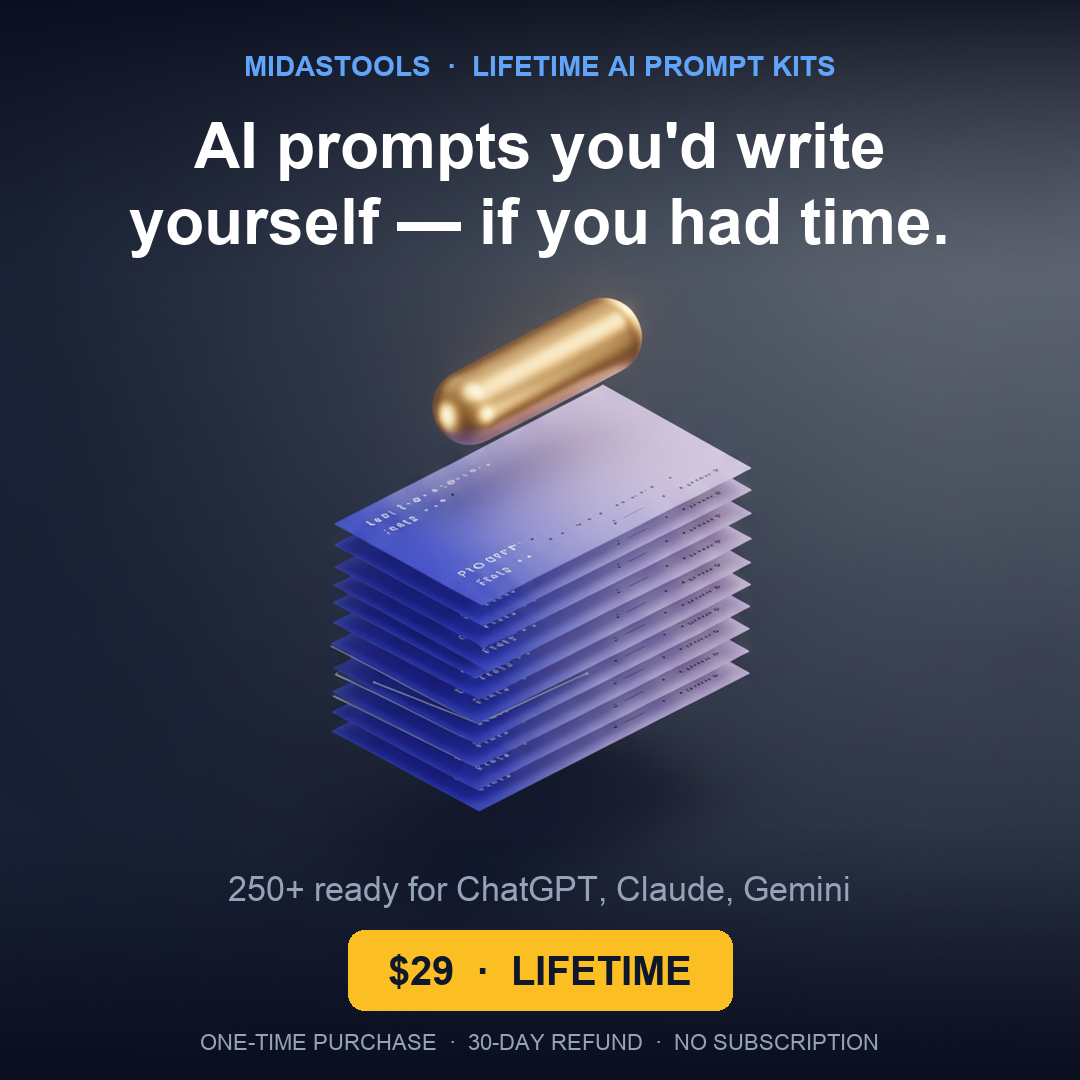
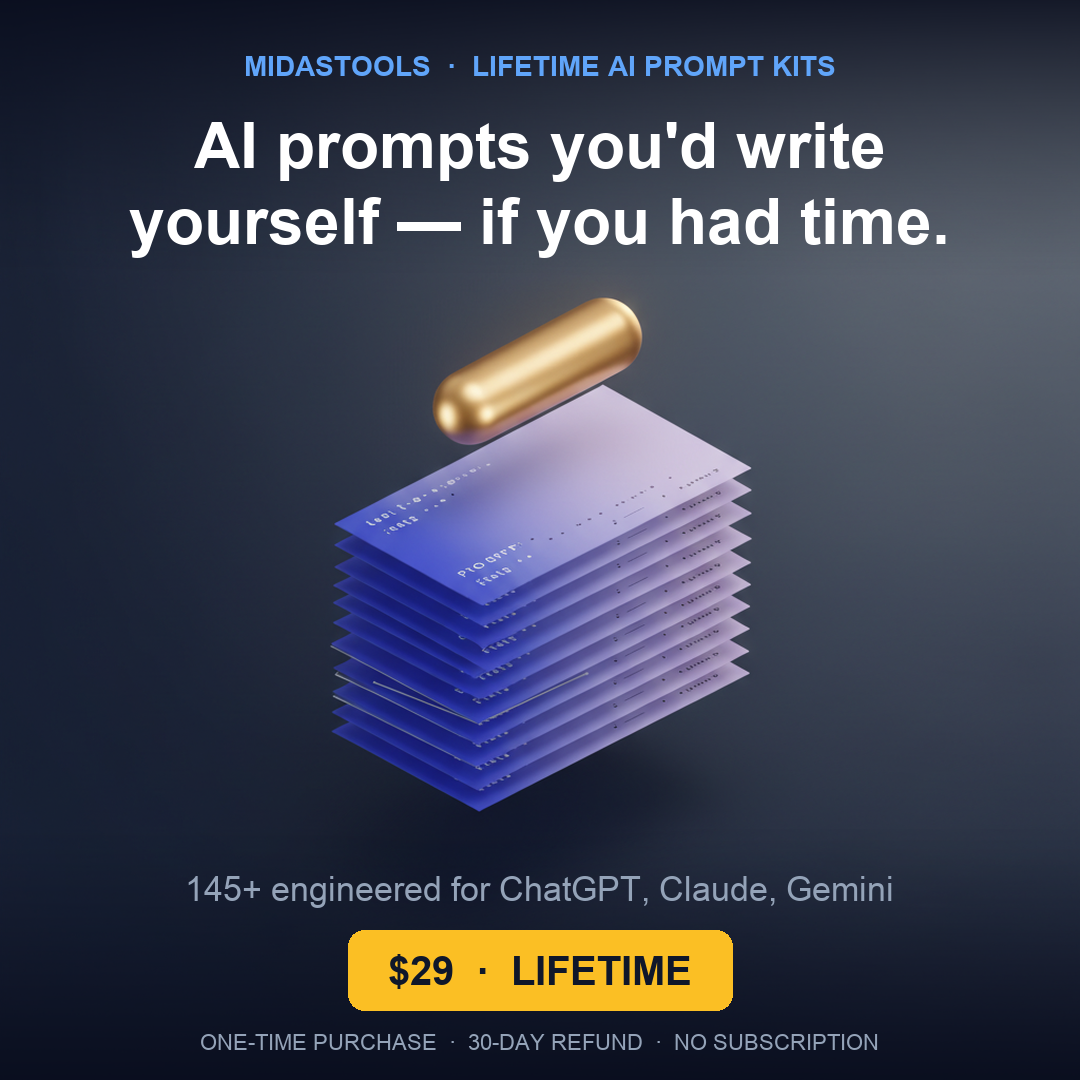
Truth audit pass 2: align Mega Pack claims to honest 145+ across surfaces
Fixed all Mega-Pack-specific overclaims found in second pass:

Front-end pages:
- pages/api/subscribe.js — welcome email "500+ prompts" → "145+ prompts"
  (auto-sends to every new signup; biggest unfixed overclaim)
- pages/prompt-enhancer.js — 3 spots ("250+ already-enhanced...8 categories"
  → "145+ already-enhanced...6 categories"; "Want 500+ Pre-Written Expert
  Prompts" → "Want 145+..."; "500+ expert prompts ready" → "145+...")
- pages/index.js — 2 Mega Pack card refs ("200+ prompts for any business" +
  "200+ prompts across every business function") → "145+..."
- pages/quiz.js — Mega Pack tagline → "145+..."
- pages/ai-audit.js — Mega Pack reference → "145+..."
- pages/blog/ai-tools-project-managers-2026.js — Mega Pack callout → "145+..."

Reddit ad asset:
- .founder/tools/finalize-reddit-ad.py — subhead "250+ ready" → "145+ engineered"
- public/reddit-ad-v3-final.png — regenerated with truthful subhead

Sales body files (won't unsend already-fired emails, but stops future reuse):
- All 7 .founder/sales/{softpitch,welcome,checkin}-may14*.body.html files
  updated from "250+ ChatGPT/Claude/Gemini prompts" → "145+ engineered..."

NOT touched (pre-existing claims that may refer to bundle-wide totals,
need Armando's strategic call):
- pages/index.js homepage hero "250+ expert prompts" (could be all 21 kits)
- pages/bundle.js "200+ business documents" (bundle-wide framing)
- pages/tools.js "1,500+ prompts, templates, and workflows" (bundle-wide)
[…]

Changed region(s): [[0.1833, 0.7944, 0.825, 0.8556]]

diff --git a/.founder/sales/softpitch-may14-christophe-desjoyaux.body.html b/.founder/sales/softpitch-may14-christophe-desjoyaux.body.html
@@ -1,0 +1,23 @@
+<p>Christophe,</p>
+
+<p>Vous vous êtes inscrit sur midastools.co il y a quelques semaines et vous n'avez jamais reçu l'email de bienvenue — un bug de stockage côté abonnés a bloqué votre signup pendant ~25 jours. Nous l'avons corrigé aujourd'hui. Mes excuses pour le délai. Le reste du message en anglais si vous préférez (réponse en français OK).</p>
+
+<p>You signed up at midastools.co a few weeks ago and the welcome email never reached you — our subscriber storage had a bug for ~25 days and your signup sat in a hold-queue. Fixed today. Apologies.</p>
+
+<p>Here's what you came for: <a href="https://www.midastools.co/ai-prompt-mega-pack?utm_source=softpitch-recovery&amp;utm_medium=email&amp;utm_campaign=recovery-corp-may14">145+ engineered ChatGPT/Claude prompts in our AI Prompt Mega Pack</a> ($29, lifetime, 30-day refund).</p>
+
+<p>Three prompts that map well to a regional service business (pool maintenance, installations, seasonal customer base):</p>
+
+<ul>
+<li><strong>Saisonnier devis-generator</strong> — paste customer details + service scope, get a clean French-language quote with terms, payment schedule, and a soft 7-day urgency line. Faster than writing each one from scratch.</li>
+<li><strong>Google review response prompt</strong> — paste a 1-star review, get 3 reply variants (apologetic / explanatory / firm-but-fair) tuned for service businesses. Saves the time of writing each defensively.</li>
+<li><strong>Seasonal demand forecaster</strong> — paste last 2 years of monthly bookings, get a week-by-week capacity-vs-demand chart for the next pool season + recommended hiring/marketing windows.</li>
+</ul>
+
+<p>Build something great,<br/>
+Armando<br/>
+MidasTools</p>
+
+<hr style="border:none;border-top:1px solid #E5E7EB;margin:24px 0;"/>
+
+<p style="font-size:14px;color:#6B7280;"><strong>P.S.</strong> &mdash; If you want a 3-prompt sample fitted to <em>your</em> Cholet/Beaucouzé operation (in French if you prefer) before deciding on the pack, reply with <strong>"sample"</strong> and I'll send a 1-page PDF customized to Desjoyaux 49 within 24 hours, free.</p>

diff --git a/.founder/sales/softpitch-may14-daniel-80si.body.html b/.founder/sales/softpitch-may14-daniel-80si.body.html
@@ -1,0 +1,23 @@
+<p>Daniel,</p>
+
+<p>You signed up at midastools.co a couple of days ago and didn't get your welcome email — our subscriber storage had a write-path bug for about a week and your signup landed in a hold-queue. We caught it today, recovered the queue, and you're properly in the system now. Apologies for the delay.</p>
+
+<p>I noticed your shop's positioning over at 80si — "real humans, no AI" — and I respect it. The prompt pack we sell isn't an "AI replaces your team" play; it's a library of well-engineered prompts that good developers/PMs use as a faster way to draft RFCs, code-review comments, client-facing scope docs, etc. The output still needs your judgment to ship.</p>
+
+<p>Here's what you came for: <a href="https://www.midastools.co/ai-prompt-mega-pack?utm_source=softpitch-recovery&amp;utm_medium=email&amp;utm_campaign=recovery-corp-may14">145+ engineered Claude/ChatGPT/Gemini prompts in the AI Prompt Mega Pack</a> ($29, lifetime, 30-day refund).</p>
+
+<p>Three that map to a small dev consultancy:</p>
+
+<ul>
+<li><strong>Code-review pre-commit prompt</strong> — paste a diff, get a 5-question checklist on whether it's ready to merge (correctness / readability / test coverage / API surface / breaking changes). Useful as a first-pass before human review.</li>
+<li><strong>Client-discovery RFC drafter</strong> — feed it a transcript or notes from a scoping call, get a 1-page proposal draft with assumptions called out + open questions list.</li>
+<li><strong>Tech-debt audit narrative</strong> — paste a list of "we know we need to fix X" items, get a prioritized 3-tier writeup framed for a non-technical client decision.</li>
+</ul>
+
+<p>Build something great,<br/>
+Armando<br/>
+MidasTools</p>
+
+<hr style="border:none;border-top:1px solid #E5E7EB;margin:24px 0;"/>
+
+<p style="font-size:14px;color:#6B7280;"><strong>P.S.</strong> &mdash; Most prompts in the pack are designed for solo operators or small teams. If you ever want a sample fitted to your actual stack (Magento/Laravel/Nuxt) before buying, reply with the word <strong>"sample"</strong> and I'll send a 3-prompt PDF customized to your work in under 24 hours, free.</p>

diff --git a/.founder/sales/softpitch-may14-ramella-fanuc.body.html b/.founder/sales/softpitch-may14-ramella-fanuc.body.html
@@ -1,0 +1,23 @@
+<p>Ramella,</p>
+
+<p>You signed up at midastools.co yesterday and didn't get your welcome email — our subscriber storage had a write-path bug for about a week and your signup landed in a hold-queue instead of triggering the standard flow. We caught it today, recovered the queue, and you're now in the system properly. Apologies for the delay.</p>
+
+<p>Here's what you actually came for: <a href="https://www.midastools.co/ai-prompt-mega-pack?utm_source=softpitch-recovery&amp;utm_medium=email&amp;utm_campaign=recovery-corp-may14">145+ engineered ChatGPT/Claude/Gemini prompts in our AI Prompt Mega Pack</a> ($29, lifetime, 30-day refund — no subscription).</p>
+
+<p>Given the work you do at FANUC America — business reporting + corporate BI — three of the most-used prompts in the pack that map directly to your function:</p>
+
+<ul>
+<li><strong>Variance-narrative builder</strong> — feed it your monthly P&amp;L delta vs forecast, get a 3-paragraph executive summary with the actual <em>why</em> behind each variance.</li>
+<li><strong>Cross-system data reconciliation prompt</strong> — paste two CSVs (ERP vs BI extract), it lists discrepancies + likely cause-categories ranked by impact.</li>
+<li><strong>Board-meeting Q&amp;A pre-mortem</strong> — feed it your quarterly deck, it generates the 12 hardest follow-up questions a CFO will ask + suggested answers.</li>
+</ul>
+
+<p>Each one is a copy-paste template with slots for your specific data. No fine-tuning, no API setup.</p>
+
+<p>Build something great,<br/>
+Armando<br/>
+MidasTools</p>
+
+<hr style="border:none;border-top:1px solid #E5E7EB;margin:24px 0;"/>
+
+<p style="font-size:14px;color:#6B7280;"><strong>P.S.</strong> &mdash; If your team at FANUC is actively figuring out how to deploy AI tools across reporting/ops workflows (the question past the prompt-pack layer), we also do a 1-on-1 <strong>AI Clarity Assessment</strong> — 90-minute working session, deliverable is a written 4-artifact audit (workflow map + AI-readiness matrix + top-3 deployment recommendations + human-in-loop design). $997 one-time, used by IT directors and operations leads at companies sorting through the AI tool sprawl. Reply with the word <strong>"audit"</strong> if it's worth a 10-minute look. No pressure if not.</p>

diff --git a/.founder/sales/welcome-may14-recovery.body.html b/.founder/sales/welcome-may14-recovery.body.html
@@ -1,0 +1,22 @@
+<p>Hi,</p>
+
+<p>You signed up at midastools.co recently and our subscriber storage had a write-path bug that kept your signup in a hold-queue instead of triggering the welcome email. Fixed today, you're now in the system properly. Apologies for the delay.</p>
+
+<p>Here's what you came for:</p>
+
+<ul>
+<li><strong><a href="https://www.midastools.co/ai-prompt-mega-pack?utm_source=welcome-recovery&amp;utm_medium=email&amp;utm_campaign=may14-consumer-batch">AI Prompt Mega Pack</a></strong> &mdash; 145+ engineered ChatGPT, Claude, and Gemini prompts for marketing, sales, content, ops, and personal productivity. $29 lifetime. 30-day refund. No subscription.</li>
+<li><strong><a href="https://www.midastools.co/tools?utm_source=welcome-recovery&amp;utm_medium=email&amp;utm_campaign=may14-consumer-batch">22+ Free AI Tools</a></strong> &mdash; including the prompt enhancer (paste a rough prompt, get a much better version back), Ghibli-style image prompt generator, action figure generator, and buyer-intent generator. All free, no signup.</li>
+</ul>
+
+<p>The Mega Pack is the most-loved thing we sell &mdash; the comparison vs subscribing to "AI prompt site of the month" newsletters is pretty stark. One-time $29, lifetime, no subscription. Includes future updates.</p>
+
+<p>If you ever bought a $49+ "prompt bundle" elsewhere and want a refund-and-switch reason, our 30-day money-back means you can compare both head-to-head with zero risk.</p>
+
+<p>Build something great,<br/>
+Armando<br/>
+MidasTools</p>
+
+<hr style="border:none;border-top:1px solid #E5E7EB;margin:24px 0;"/>
+
+<p style="font-size:13px;color:#6B7280;">P.S. &mdash; If you have a specific use case you want help with (cold email, content batch, customer support replies, code review, etc.), reply with two sentences about your work and I'll point you at the right 2&ndash;3 prompts in the pack. Real human reply, no automation.</p>

diff --git a/.founder/sales/checkin-may14-info-acprintmedia.body.html b/.founder/sales/checkin-may14-info-acprintmedia.body.html
@@ -1,0 +1,20 @@
+<p>Hallo,</p>
+
+<p>Sie haben sich am 15. April auf midastools.co eingetragen und damals die 5 Gratis-Prompts erhalten. Kurze Nachricht ~4 Wochen später &mdash; alles weitere unten auf Englisch (Antwort gerne auf Deutsch).</p>
+
+<p>You signed up at midastools.co on April 15 and received the 5 free prompts then. Quick ~4-week check-in.</p>
+
+<p>Two things shipped since:</p>
+
+<ul>
+<li><strong><a href="https://www.midastools.co/starter-pack?utm_source=checkin-may14&amp;utm_medium=email">$9 Starter Pack</a></strong> &mdash; 20 curated prompts, lower-cost entry point than the full Mega Pack.</li>
+<li><strong><a href="https://www.midastools.co/ai-prompt-mega-pack?utm_source=checkin-may14&amp;utm_medium=email&amp;utm_campaign=checkin-corp">AI Prompt Mega Pack</a></strong> ($29 lifetime, 30-day refund) &mdash; 145+ engineered prompts including sections specifically useful for a regional advertising/print shop: client quote-generators, customer-review responses, social-media campaign drafts, seasonal-promo planners.</li>
+</ul>
+
+<p>Build something great,<br/>
+Armando<br/>
+MidasTools</p>
+
+<hr style="border:none;border-top:1px solid #E5E7EB;margin:24px 0;"/>
+
+<p style="font-size:14px;color:#6B7280;"><strong>P.S.</strong> &mdash; If you want 3 prompts customized to A&amp;C Printmedia (Kühlungsborn print/advertising work specifically) before deciding on the pack, reply with <strong>"sample"</strong> and I'll send a 1-page PDF within 24 hours, free. Auf Deutsch verfügbar wenn gewünscht.</p>

diff --git a/.founder/sales/checkin-may14-shannon-lakecounty.body.html b/.founder/sales/checkin-may14-shannon-lakecounty.body.html
@@ -1,0 +1,20 @@
+<p>Shannon,</p>
+
+<p>You signed up at midastools.co on April 15 and received the 5 free prompts then. Quick ~4-week check-in.</p>
+
+<p>Two things shipped since:</p>
+
+<ul>
+<li><strong><a href="https://www.midastools.co/audit-template?utm_source=checkin-may14&amp;utm_medium=email">Free AI Tool Audit Checklist</a></strong> &mdash; 14-question structured walkthrough useful for evaluating where AI fits in a department/operation. Free, email-gated.</li>
+<li><strong><a href="https://www.midastools.co/starter-pack?utm_source=checkin-may14&amp;utm_medium=email">$9 Starter Pack</a></strong> &mdash; 20 curated prompts, lower-cost entry point than the full pack.</li>
+</ul>
+
+<p>The full <a href="https://www.midastools.co/ai-prompt-mega-pack?utm_source=checkin-may14&amp;utm_medium=email&amp;utm_campaign=checkin-corp">AI Prompt Mega Pack</a> ($29 lifetime, 30-day refund) is still available &mdash; 145+ engineered prompts including sections useful for public-sector communications, internal training, constituent FAQ generation, and policy-research summaries.</p>
+
+<p>Build something great,<br/>
+Armando<br/>
+MidasTools</p>
+
+<hr style="border:none;border-top:1px solid #E5E7EB;margin:24px 0;"/>
+
+<p style="font-size:14px;color:#6B7280;"><strong>P.S.</strong> &mdash; If Lake County is exploring how AI tools fit into department operations (constituent services, internal training, document workflow, etc.), we do a 1-on-1 <strong>AI Clarity Assessment</strong> with a written 4-artifact deliverable (workflow map + AI-readiness matrix + top-3 deployment recommendations + human-in-loop design). $997 one-time, fits inside most training/discretionary budgets. Built for the operational layer past the prompt-pack stage. Reply <strong>"audit"</strong> if worth a 10-min look.</p>

diff --git a/.founder/sales/checkin-may14-tsimmons-stamhealth.body.html b/.founder/sales/checkin-may14-tsimmons-stamhealth.body.html
@@ -1,0 +1,20 @@
+<p>Hi T.,</p>
+
+<p>You signed up at midastools.co on April 9 and got the 5 free prompts back then. It's been ~5 weeks since, so quick check-in.</p>
+
+<p>Two things have shipped since you joined:</p>
+
+<ul>
+<li><strong><a href="https://www.midastools.co/audit-template?utm_source=checkin-may14&amp;utm_medium=email">Free AI Tool Audit Checklist</a></strong> &mdash; 14-question structured walkthrough for evaluating where AI fits (and where it doesn't) in a specific operation. Free download, email-gated.</li>
+<li><strong><a href="https://www.midastools.co/starter-pack?utm_source=checkin-may14&amp;utm_medium=email">$9 Starter Pack</a></strong> &mdash; 20 curated prompts (the best of the free 5 + 15 more), in case the full $29 Mega Pack felt like too much for a first try.</li>
+</ul>
+
+<p>The full <a href="https://www.midastools.co/ai-prompt-mega-pack?utm_source=checkin-may14&amp;utm_medium=email&amp;utm_campaign=checkin-corp">AI Prompt Mega Pack</a> ($29 lifetime, 30-day refund) is still there too &mdash; 145+ engineered prompts including a section specifically built for ops/comms teams at orgs like yours.</p>
+
+<p>Build something great,<br/>
+Armando<br/>
+MidasTools</p>
+
+<hr style="border:none;border-top:1px solid #E5E7EB;margin:24px 0;"/>
+
+<p style="font-size:14px;color:#6B7280;"><strong>P.S.</strong> &mdash; If your team at Stam Health is exploring how AI tools fit into healthcare ops/comms (around HIPAA, patient communication, internal training, etc.), we do a 1-on-1 <strong>AI Clarity Assessment</strong> with a written 4-artifact deliverable (workflow map + AI-readiness matrix + top-3 deployment recommendations + human-in-loop design). $997 one-time. Built for the question past the prompt-pack layer. Reply <strong>"audit"</strong> if worth a 10-min look. No pressure.</p>

diff --git a/pages/prompt-enhancer.js b/pages/prompt-enhancer.js
@@ -818,7 +818,7 @@ export default function PromptEnhancer() {
         }}>
           <div style={{ flex: '1 1 260px', color: '#FFF' }}>
             <div style={{ fontSize: 11, fontWeight: 800, letterSpacing: 1, color: '#FCD34D', marginBottom: 4 }}>⚡ SKIP THE ENHANCER</div>
-            <div style={{ fontSize: 16, fontWeight: 700, lineHeight: 1.35 }}>250+ already-enhanced expert prompts across 8 categories. Copy &amp; paste ready.</div>
+            <div style={{ fontSize: 16, fontWeight: 700, lineHeight: 1.35 }}>145+ already-enhanced expert prompts across 6 categories. Copy &amp; paste ready.</div>
           </div>
           <a href={STRIPE_MEGA_PACK} style={{
             display: 'inline-block',
@@ -942,7 +942,7 @@ export default function PromptEnhancer() {
       <section className="upsell">
         <div className="upsell-card">
           <div className="upsell-badge">Skip the Enhancing</div>
-          <h2>Want 500+ Pre-Written Expert Prompts?</h2>
+          <h2>Want 145+ Pre-Written Expert Prompts?</h2>
           <p>
             Every prompt in our Mega Pack is already engineered with role assignment, context,
             format instructions, and quality constraints built in. Just copy, paste, and get results.
@@ -1009,7 +1009,7 @@ export default function PromptEnhancer() {
           borderTop: '1px solid rgba(255,255,255,0.1)',
         }}>
           <span style={{ color: '#fff', fontSize: 14, fontWeight: 600 }}>
-            500+ expert prompts ready to copy & paste
+            145+ expert prompts ready to copy & paste
           </span>
           <a href={STRIPE_MEGA_PACK} style={{
             background: '#3B5FFF', color: '#fff', padding: '8px 20px',

diff --git a/pages/index.js b/pages/index.js
@@ -478,7 +478,7 @@ export default function Home() {
           {[
             { name: 'Video Prompt Pack', price: '$29', desc: 'Veo 3.1, Kling 3.0, Runway prompts', href: '/ai-video-prompt-pack', bg: 'var(--card-cyan)' },
             { name: 'Image Prompt Pack', price: '$29', desc: 'ChatGPT, Midjourney, DALL-E', href: '/ai-image-prompt-pack', bg: 'var(--card-pink)' },
-            { name: 'Prompt Mega Pack', price: '$29', desc: '200+ prompts for any business', href: '/ai-prompt-mega-pack', bg: 'var(--card-amber)' },
+            { name: 'Prompt Mega Pack', price: '$29', desc: '145+ prompts for any business', href: '/ai-prompt-mega-pack', bg: 'var(--card-amber)' },
             { name: 'Notion Templates Kit', price: '$39', desc: '150+ Notion templates & systems', href: '/notion-templates-kit', bg: 'var(--card-purple)' },
             { name: 'Social Media Kit', price: '$39', desc: 'Calendars, captions, viral content', href: '/social-media-kit', bg: 'var(--card-cyan)' },
             { name: 'Email Marketing Kit', price: '$29', desc: 'Sequences, newsletters, outreach', href: '/email-marketing-kit', bg: 'var(--card-amber)' },
@@ -519,7 +519,7 @@ export default function Home() {
         <div className="pricing-grid">
           {[
             { label: 'Try Us For $9', price: '$9', term: 'one-time', name: 'Starter Pack', desc: '20 hand-picked AI prompts. Cold outreach, landing pages, content, AI images, sales, productivity. Instant download.', href: '/starter-pack', cta: 'Get 20 Prompts \u2192', featured: false },
-            { label: 'Most Popular', price: '$29', term: 'one-time', name: 'AI Prompt Mega Pack', desc: '200+ prompts across every business function. The full prompt library.', href: STRIPE_URL, cta: 'Get the Kit \u2192', featured: false },
+            { label: 'Most Popular', price: '$29', term: 'one-time', name: 'AI Prompt Mega Pack', desc: '145+ prompts across every business function. The full prompt library.', href: STRIPE_URL, cta: 'Get the Kit \u2192', featured: false },
             { label: 'Best Value', price: '$97', term: 'one-time', name: 'All Kits Bundle', desc: '16 AI kits + all future kits free. Save 83% vs buying separately.', href: 'https://buy.stripe.com/aEUbJ01xR0YxgligkocMM0g', cta: 'Get the Bundle \u2192', featured: true },
           ].map(p => (
             <div key={p.name} className={`pricing-card${p.featured ? ' featured' : ''}`}>

diff --git a/pages/ai-audit.js b/pages/ai-audit.js
@@ -272,7 +272,7 @@ export default function AIAssessment() {
             <div className="tier-tag">DIY-ASSIST</div>
             <h4>Coach Mega Pack</h4>
             <div className="price">$97<small>/once</small></div>
-            <p>200+ done-for-you prompts so the recommended tools immediately produce on-brand output.</p>
+            <p>145+ done-for-you prompts so the recommended tools immediately produce on-brand output.</p>
             <a href={MEGA_PACK} style={{display:'block',textAlign:'center',marginTop:16,padding:'10px 14px',background:'rgba(255,200,0,0.08)',border:'1px solid rgba(255,200,0,0.2)',borderRadius:99,fontSize:13,fontWeight:700,color:'var(--gold)',textDecoration:'none'}}>Add to assessment →</a>
           </div>
           <div className="ladder-card">

diff --git a/pages/api/subscribe.js b/pages/api/subscribe.js
@@ -118,7 +118,7 @@ export default async function handler(req, res) {
 
           <div style="background:#3B5FFF;border-radius:12px;padding:24px;margin:32px 0;text-align:center;">
             <p style="color:#FFF;font-size:18px;font-weight:700;margin:0 0 8px;">These 5 prompts are from our free collection. Want the full arsenal?</p>
-            <p style="color:rgba(255,255,255,0.85);font-size:14px;margin:0 0 16px;">500+ prompts with the same level of detail — for sales, marketing, ops, hiring, content, and more.</p>
+            <p style="color:rgba(255,255,255,0.85);font-size:14px;margin:0 0 16px;">145+ prompts with the same level of detail — for sales, marketing, ops, hiring, content, and more.</p>
             <a href="https://buy.stripe.com/4gMbJ0dgz4aJ1qkb46cMM0d" style="display:inline-block;background:#FFF;color:#3B5FFF;font-weight:700;font-size:16px;padding:12px 32px;border-radius:100px;text-decoration:none;">Get the Mega Pack — $29</a>
           </div>
 

diff --git a/pages/blog/ai-tools-project-managers-2026.js b/pages/blog/ai-tools-project-managers-2026.js
@@ -265,7 +265,7 @@ Also provide:
         </div>
 
         <div style={{ background: 'linear-gradient(135deg, #EEF2FF 0%, #E0E7FF 100%)', borderRadius: '12px', padding: '32px', margin: '40px 0', textAlign: 'center' }}>
-          <h3 style={{ marginTop: 0, fontSize: '1.3rem' }}>200+ Business Prompts Including PM Templates</h3>
+          <h3 style={{ marginTop: 0, fontSize: '1.3rem' }}>145+ Business Prompts Including PM Templates</h3>
           <p style={{ color: '#4B5563', marginBottom: '20px' }}>The Mega Pack includes status reports, stakeholder updates, risk registers, sprint reviews, retrospectives, project charters, and dozens more &mdash; all tested and ready to use.</p>
           <a href={STRIPE_MEGA} style={{ display: 'inline-block', background: '#3B5FFF', color: '#fff', padding: '14px 32px', borderRadius: '100px', textDecoration: 'none', fontWeight: '700', fontSize: '16px' }}>Get the Mega Pack &mdash; $29 &rarr;</a>
         </div>